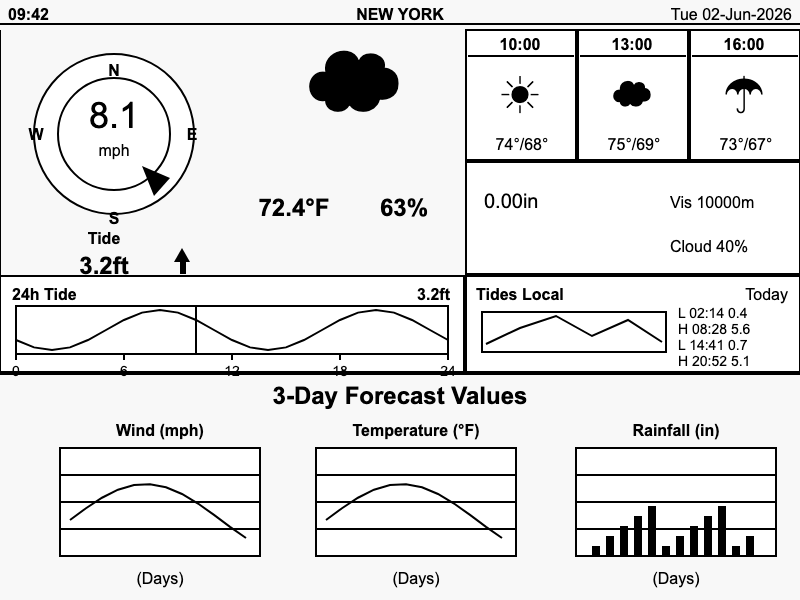
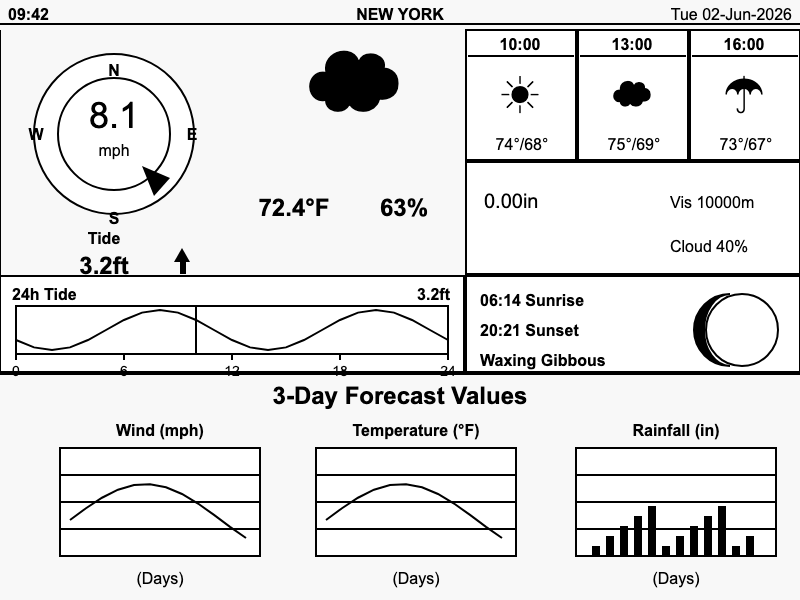
Restore astronomy panel beside tide graph

Changed region(s): [[0.5938, 0.48, 1.0, 0.63], [0.9688, 0.54, 1.0, 0.57]]

diff --git a/examples/CrowPanel_4_2_Weather_Tides/local_tides.h b/examples/CrowPanel_4_2_Weather_Tides/local_tides.h
@@ -1,14 +1,6 @@
 #ifndef LOCAL_TIDES_H
 #define LOCAL_TIDES_H
 
-// Replace these values each day, or generate this file from a tide source.
-// Time should be local display time. Height is in feet.
-struct LocalTideEvent {
-  const char* time;
-  float height_ft;
-  char type; // 'H' or 'L'
-};
-
 struct LocalTideSample {
   uint8_t hour;
   float height_ft;
@@ -17,16 +9,8 @@ struct LocalTideSample {
 static const char LOCAL_TIDE_STATION[] = "Local";
 static const char LOCAL_TIDE_DATE[] = "Today";
 
-static const LocalTideEvent LocalTides[] = {
-  {"02:14", 0.4, 'L'},
-  {"08:28", 5.6, 'H'},
-  {"14:41", 0.7, 'L'},
-  {"20:52", 5.1, 'H'}
-};
-
-static const int LocalTideCount = sizeof(LocalTides) / sizeof(LocalTides[0]);
-
-// Hourly-ish samples for the 24h tide graph and current tide estimate.
+// Replace these values each day, or generate this file from a tide source.
+// Time should be local display time. Height is in feet.
 // Keep the final 24-hour point so interpolation works through the end of day.
 static const LocalTideSample LocalTideSamples[] = {
   {0, 1.2},

diff --git a/examples/CrowPanel_4_2_Weather_Tides/README.md b/examples/CrowPanel_4_2_Weather_Tides/README.md
@@ -11,12 +11,12 @@ This example is adapted from `examples/Waveshare_4_2` for the Elecrow CrowPanel 
 - Replaces the pressure value/trend callout with current tide height plus a rising/falling arrow.
 - Replaces the current-condition description band with a 24-hour local tide graph.
 - Replaces the bottom-left 3-day pressure graph with a 3-day wind graph.
-- Replaces the lower-right astronomy panel with a local daily tide table and small tide graph.
+- Keeps the middle-right sunrise/sunset/moon panel.
 
 ## Setup
 
 1. Edit `owm_credentials.h` with Wi-Fi, OpenWeather One Call 3.0 API key, latitude, longitude, city label, units, and timezone.
-2. Edit `local_tides.h` with the day's local tide events and hourly tide samples.
+2. Edit `local_tides.h` with the day's hourly tide samples.
 3. Arduino IDE board settings:
    - Board: `ESP32S3 Dev Module`
    - Flash size: `8MB`
@@ -29,21 +29,26 @@ The default refresh is 30 minutes. Keep it at 15 minutes or slower unless you ha
 
 ## Tide Data
 
-`local_tides.h` is intentionally simple for the first build:
+`local_tides.h` is intentionally simple for the first build. The 24-hour tide graph and current tide status use `LocalTideSamples`:
 
 ```cpp
-static const LocalTideEvent LocalTides[] = {
-  {"02:14", 0.4, 'L'},
-  {"08:28", 5.6, 'H'},
-  {"14:41", 0.7, 'L'},
-  {"20:52", 5.1, 'H'}
+static const LocalTideSample LocalTideSamples[] = {
+  {0, 1.2},
+  {3, 0.4},
+  {6, 3.8},
+  {9, 5.6},
+  {12, 2.9},
+  {15, 0.7},
+  {18, 3.5},
+  {21, 5.1},
+  {24, 1.4}
 };
 ```
 
 Once the display is working, this can be replaced by a generated file, an SD-card file, or an API fetch from a tide source.
 
-The 24-hour tide graph uses `LocalTideSamples`. Include a final `{24, ...}` sample so the interpolation works cleanly through the end of the day.
+Include a final `{24, ...}` sample so the interpolation works cleanly through the end of the day.
 
 ## Layout Preview
 
-`layout-preview.svg` and `layout-preview.png` are approximate desktop previews of the 400x300 layout. They are useful for checking big spacing decisions, but final font sizes and e-paper refresh behavior still need to be verified on the CrowPanel.
+`layout-preview.svg` and `layout-preview.png` are hand-built approximate desktop previews of the 400x300 layout, not output captured from GxEPD2. They are useful for checking big spacing decisions, but final font sizes and e-paper refresh behavior still need to be verified on the CrowPanel.